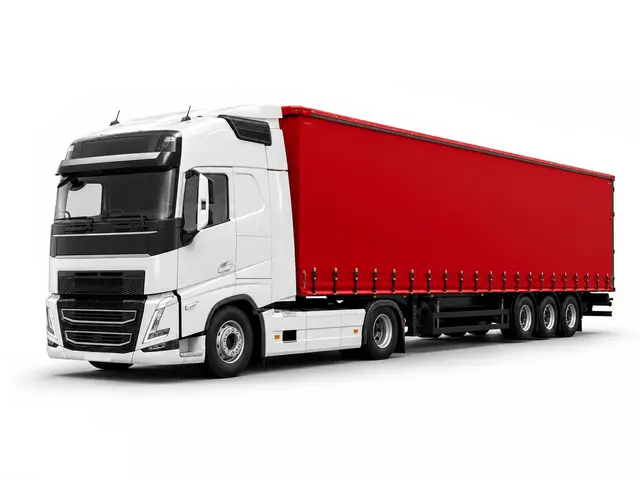
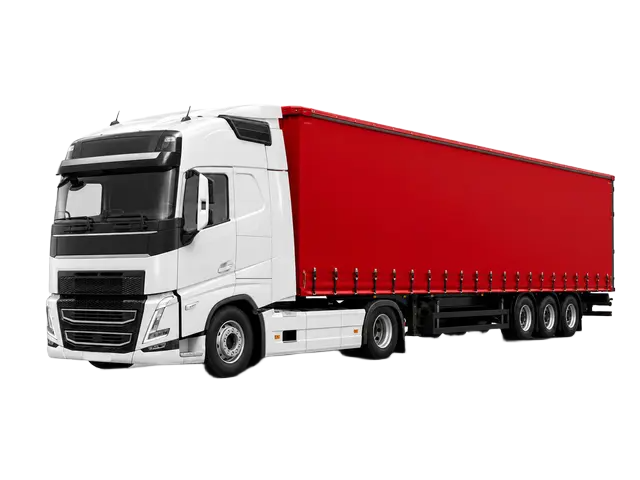
Remove inline background color from buttons and update image sources to .webp format in index.html

Changed region(s): [[0.0625, 0.6562, 0.9688, 0.8125]]

diff --git a/index.html b/index.html
@@ -190,7 +190,7 @@
                 <div class="form-container">
                     <div class="row mt-2">
                         <div class="col mb-2">
-                            <div class="btn col-btn d-flex flex-row justify-content-center" style="background-color:#FEFEFE;" data-step="2">
+                            <div class="btn col-btn d-flex flex-row justify-content-center" data-step="2">
                                 <input class="form-check calc-atc-type" type="radio" name="calc-atc-type" id="single" hidden>
                                 <img src="calc-atc-type/single.webp" alt="">
                                 <span class="col-label text-uppercase">Одиночный автомобиль</span>
@@ -199,7 +199,7 @@
                             </div>
                         </div>
                         <div class="col mb-2">
-                            <div class="btn col-btn d-flex flex-row justify-content-center" style="background-color:#FEFEFE;" data-step="2">
+                            <div class="btn col-btn d-flex flex-row justify-content-center" data-step="2">
                                 <input class="form-check calc-atc-type" type="radio" name="calc-atc-type" id="polupricep" hidden>
                                 <img src="calc-atc-type/polupricep.webp" alt="">
                                 <span class="col-label text-uppercase">Тягач + полуприцеп</span>
@@ -210,7 +210,7 @@
                     </div>
                     <div class="row mt-2">
                         <div class="col mb-2">
-                            <div class="btn col-btn d-flex flex-row justify-content-center" style="background-color:#FEFEFE;" data-step="2">
+                            <div class="btn col-btn d-flex flex-row justify-content-center" data-step="2">
                                 <input class="form-check calc-atc-type" type="radio" name="calc-atc-type" id="pricep" hidden>
                                 <img src="calc-atc-type/pricep.webp" alt="">
                                 <span class="col-label text-uppercase">Тягач + прицеп</span>
@@ -219,7 +219,7 @@
                             </div>
                         </div>
                         <div class="col mb-2">
-                            <div class="btn col-btn d-flex flex-row justify-content-center" style="background-color:#FEFEFE;" data-step="2">
+                            <div class="btn col-btn d-flex flex-row justify-content-center" data-step="2">
                                 <input class="form-check calc-atc-type" type="radio" name="calc-atc-type" id="trall" hidden>
                                 <img src="calc-atc-type/trall.webp" alt="">
                                 <span class="col-label text-uppercase">Тягач + трал</span>
@@ -2371,7 +2371,6 @@
             .step[data-spa-step="1"] .btn.col-btn img {
                 height: 185px;
                 margin: 20px 0 15px;
-                filter: contrast(.96);
             }
 
             .step[data-spa-step="1"] .col-label {
